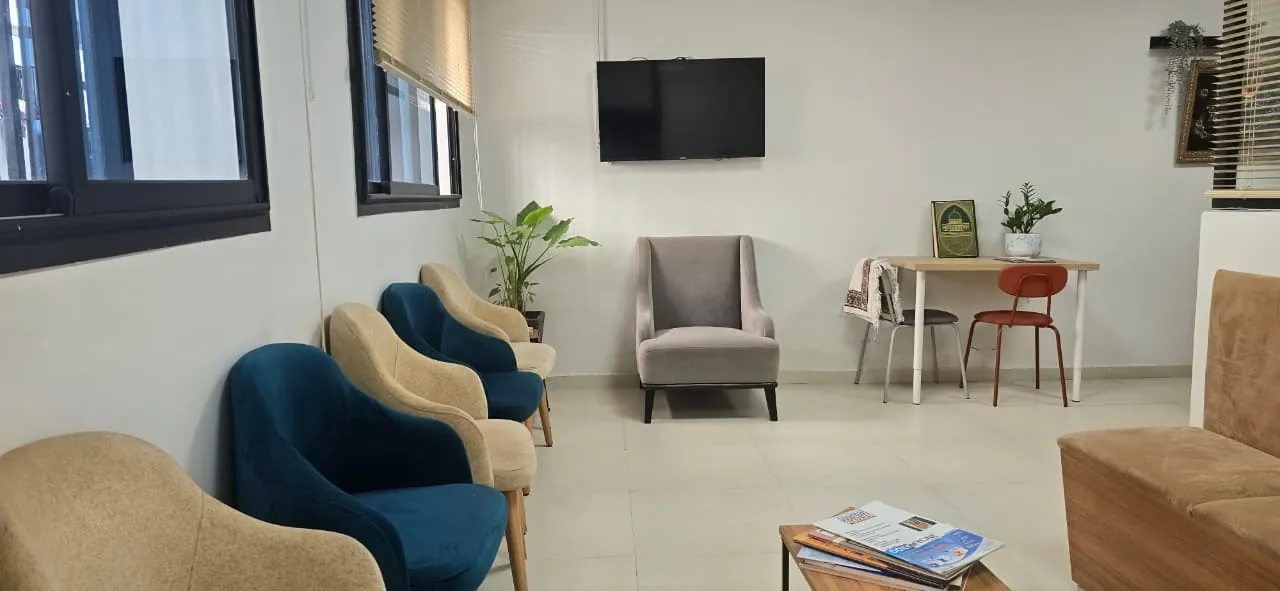
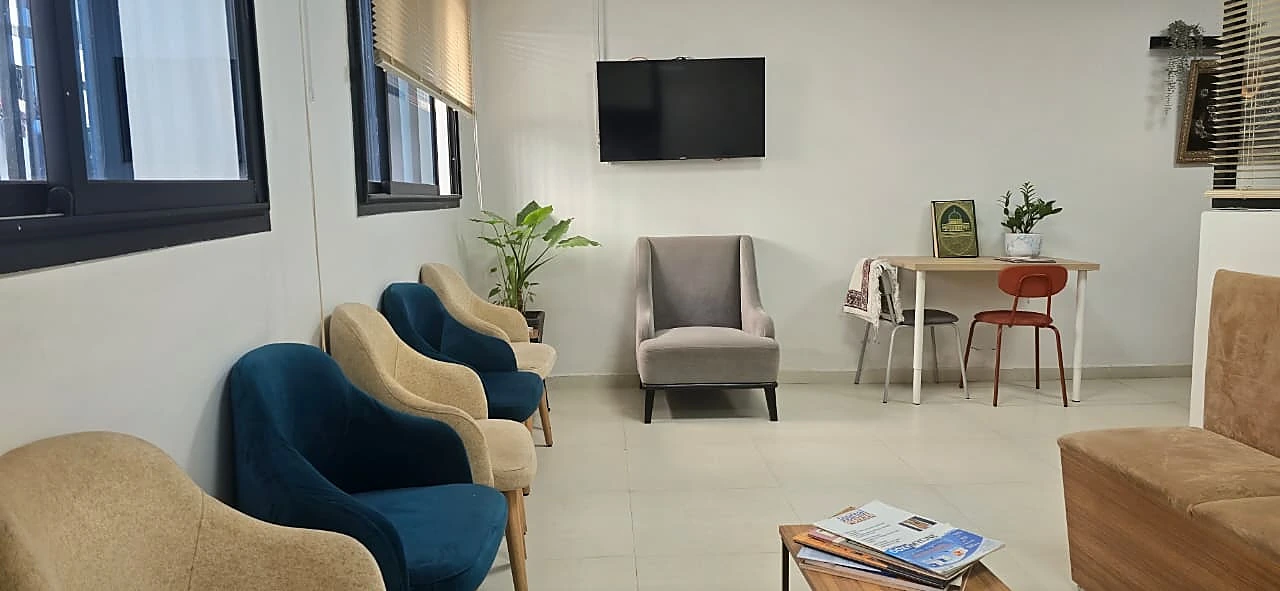
New hero portrait and sharper practice photos
- Hero: the doctor's new portrait (1088x1445) replaces the old PNG; the
  link-preview image is regenerated with it.
- Gallery photos re-exported from the doctor's files at WebP q92 with
  a light unsharp mask (were q82, no sharpening).
- next/image re-compressed them at its default q75: hero and gallery
  now request q90 (allowed via images.qualities [75, 90]).
- Phones only got a 640px file for a wide photo cropped into a tall
  frame; the gallery's sizes hint now asks for the full resolution.

Claude-Session: https://claude.ai/code/session_01THSwj6NiZHgvQ9FFrWEFj1

diff --git a/src/components/Gallery.tsx b/src/components/Gallery.tsx
@@ -158,7 +158,9 @@ export function Gallery({ dict }: { dict: Dictionary["gallery"] }) {
                   src={g.src}
                   alt={dict.captions[g.key]}
                   fill
-                  sizes="(min-width: 1024px) 40rem, 75vw"
+                  // Wide photos fill a tall frame on phones, so they need more pixels than its width.
+                  sizes="(min-width: 1024px) 40rem, 160vw"
+                  quality={90}
                   className={contain ? "object-contain" : "object-cover"}
                   style={position ? { objectPosition: position } : undefined}
                   loading={Math.abs(offset) <= 1 ? "eager" : "lazy"}

diff --git a/src/lib/site.ts b/src/lib/site.ts
@@ -18,7 +18,7 @@ export const site = {
 };
 
 // Tall portrait used in the hero arch (and as the practice image for Google).
-export const portrait = { src: "/images/doctor-portrait.png", position: "50% 30%" };
+export const portrait = { src: "/images/doctor-portrait.webp", position: "50% 25%" };
 
 // Gallery order. `fit: "contain"` shows tall photos in full instead of cropping them.
 export const gallery = [

diff --git a/src/components/Hero.tsx b/src/components/Hero.tsx
@@ -73,6 +73,7 @@ export function Hero({ dict, portrait, portraitPosition = "50% 50%" }: Props) {
               alt={dict.portraitAlt}
               fill
               preload
+              quality={90}
               sizes="(min-width: 1024px) 28rem, 20rem"
               className="object-cover"
               style={{ objectPosition: portraitPosition }}

diff --git a/next.config.ts b/next.config.ts
@@ -3,6 +3,8 @@ import type { NextConfig } from "next";
 const nextConfig: NextConfig = {
   /* config options here */
   cacheComponents: true,
+  // 90 for the practice photos (sharper), 75 stays the default elsewhere.
+  images: { qualities: [75, 90] },
   partialPrefetching: true,
   turbopack: {
     rules: {
